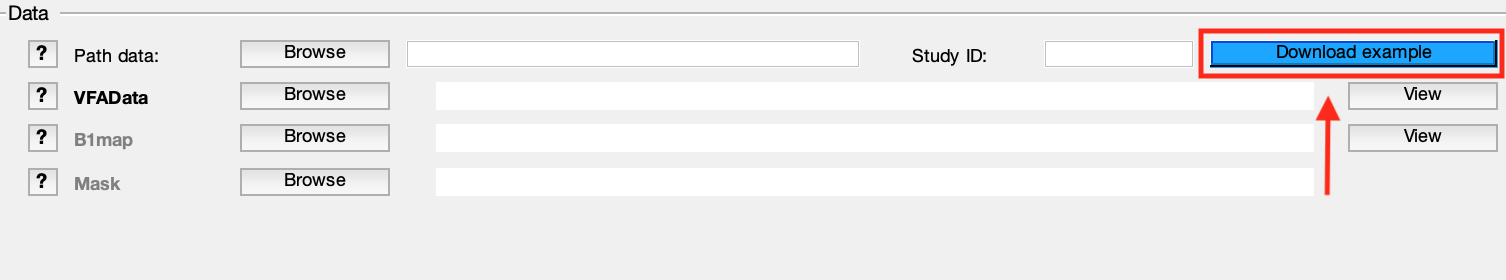
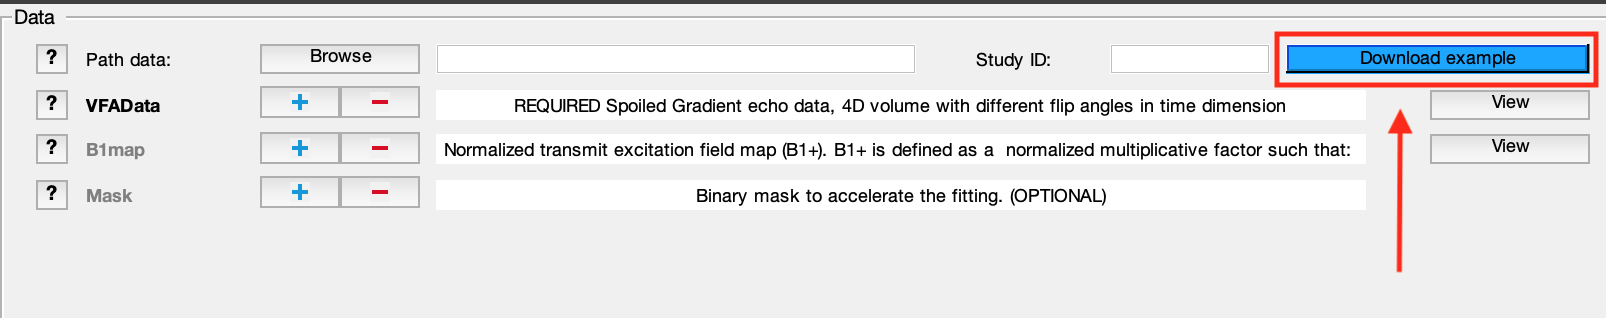
Improve documentation

diff --git a/docs/source/example_datasets.rst b/docs/source/example_datasets.rst
@@ -18,12 +18,27 @@ After selecting a model from the dropdown menu, you can use *Download Data* (blu
    :scale: 100 %
 
 You will be prompted for a directory where the example dataset will be saved. After the dataset has been downloaded, qMRLab will 
-automatically set *Path data* to the download directory and load the input files. *Required* input labels are displayed in bold (e.g., `VFAData`), whereas the labels of the *Optional* inputs are in faded color (e.g., `B1map` and `Mask`). You can get more information about the input fields by clicking question mark buttons next to the input labels.
+automatically set *Path data* to the download directory and load the input files.
 
 :: 
 
   Please note that such auto-loading takes effect only if the name of the images (e.g. VFAData.nii.gz) in the Path data directory are identical with that of the data fields (e.g., VFAData) listed in the data panel.
 
+Step by step instructions to get started with GUI are available at :ref:`Beginner's example with GUI`.
 
 Download example datasets via CLI
 ------------------------------------
+
+qMRlab can automatically generate an m-script (`model_name_batch.m`) or a Jupyter Notebook (`model_name_batch.ipynb`)for every model and download corresponding datasets for fitting by `qMRGenBatch` and `qMRGenJNB` functions, respectively.
+
+Step by step instructions to get started with CLI are available at :ref:`Beginner's example with CLI`.
+
+Note: You can execute Jupyter Notebooks online by clicking the Binder badge located at the top of the respective method's `documentation <qmrlab.readthedocs.io/en/master/>`_. page. See an example for `variable flip angle T1 mapping <https://mybinder.org/v2/gh/qMRLab/doc_notebooks/master?filepath=vfa_t1_notebook.ipynb>`_.
+
+If you would like to download the example dataset without generating scripts ::
+
+  Model = model_name;
+  path = 'directory/to/download/the/data/';
+  downloadData(Model, path);
+
+

diff --git a/docs/source/gui-example.rst b/docs/source/gui-example.rst
@@ -46,13 +46,13 @@ Click *Download Data* (blue) button located at the upper right corner of the dat
    :scale: 100 %
 
 You will be prompted for a directory where the example dataset will be saved. After the dataset has been downloaded, qMRLab will 
-automatically set *Path data* to the download directory and load the input files. *Required* input labels are displayed in bold (e.g., `VFAData`), whereas the labels of the *Optional* inputs are in faded color (e.g., `B1map` and `Mask`). You can get more information about the input fields by clicking question mark buttons next to the input labels.
+automatically set *Path data* to the download directory and load the input files.
 
 :: 
 
-  Please note that such auto-loading takes effect only if the name of the images (e.g. VFAData.nii.gz) in the Path data directory are identical with that of the data fields (e.g., VFAData) listed in the data panel.
+  Please note that such auto-loading takes effect only if the name of the images (e.g. VFAData.nii.gz) in the Path data directory are identical to that of the data fields (e.g., VFAData) listed in the data panel. There are no filename assumptions for the user data. Any file name is acceptable as long as the data format and the data dimensions are in agreement with the method's inputs. 
 
-For a more detailed description of what the input data should look like, please refer to :ref:`4.1	Data format`
+For a more detailed description about input data formats, please refer to :ref:`4.1	Data format`
 
 6. View the data
 -------------------------
